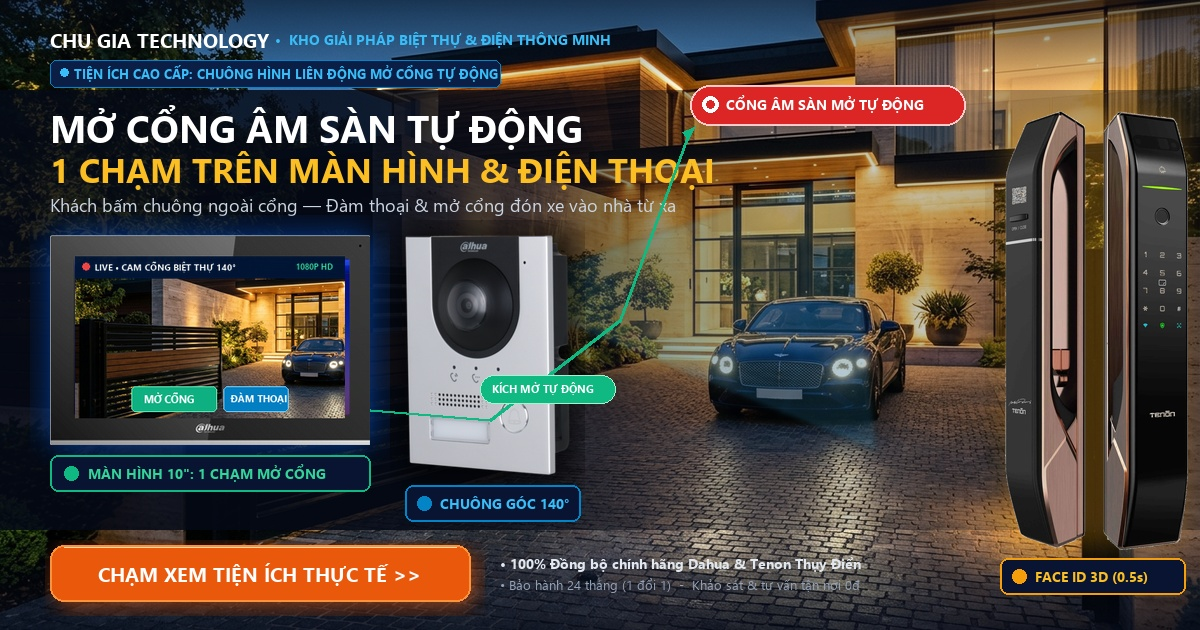
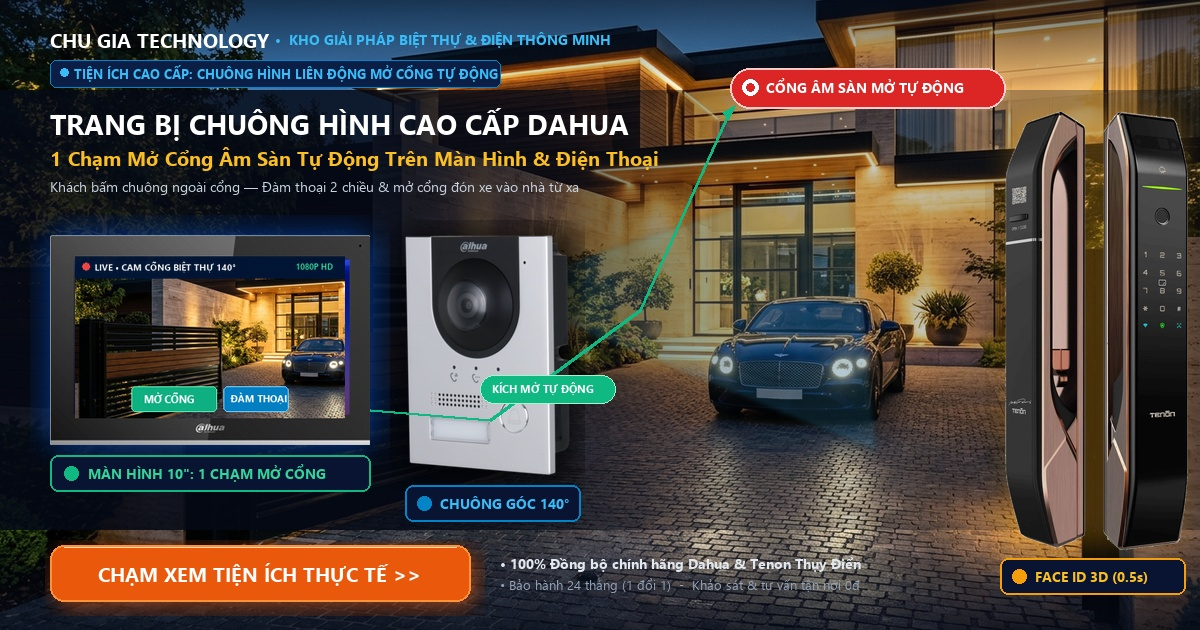
feat(share): bo sung tieu de Trang bi chuong hinh cao cap Dahua va thu nho chu doan mo cong am san

Changed region(s): [[0.0308, 0.0905, 0.8633, 0.5429], [0.4625, 0.5429, 0.4933, 0.6032]]

diff --git a/combo/dahua-villa.html b/combo/dahua-villa.html
@@ -3,28 +3,28 @@
 <head>
   <meta charset="UTF-8">
   <meta name="viewport" content="width=device-width, initial-scale=1.0">
-  <title>🔥 1 Chạm Mở Cổng Âm Sàn & Đón Khách Từ Xa • Combo Chuông Hình Dahua 140° & Khóa Face ID Tenon A7x | Chu Gia Technology</title>
-  <meta name="description" content="Khách bấm chuông ngoài cổng — Đàm thoại 2 chiều và bấm 1 chạm mở cổng âm sàn đón xe vào nhà ngay trên màn hình 10 inch hoặc qua điện thoại từ xa. Camera góc siêu rộng 140° không điểm mù & Khóa thông minh Tenon A7x nhận diện Face ID 3D. Trọn gói ưu đãi tiết kiệm 2.500.000 ₫, bảo hành 24 tháng 1 đổi 1. Hotline: 0941 204 125.">
+  <title>🔥 Trang Bị Chuông Hình Cao Cấp Dahua • Mở Cổng Âm Sàn Tự Động & Khóa Face ID Tenon A7x | Chu Gia Technology</title>
+  <meta name="description" content="Trang bị chuông hình cao cấp Dahua — Đàm thoại 2 chiều và bấm 1 chạm mở cổng âm sàn tự động đón xe vào nhà ngay trên màn hình 10 inch hoặc qua điện thoại từ xa. Camera góc siêu rộng 140° không điểm mù & Khóa thông minh Tenon A7x nhận diện Face ID 3D. Trọn gói ưu đãi tiết kiệm 2.500.000 ₫, bảo hành 24 tháng 1 đổi 1. Hotline: 0941 204 125.">
 
   <!-- Open Graph / Facebook -->
   <meta property="og:locale" content="vi_VN">
   <meta property="og:type" content="product">
   <meta property="og:site_name" content="Chu Gia Technology">
   <meta property="og:url" content="https://chugia.shop/combo/dahua-villa.html">
-  <meta property="og:title" content="🔥 1 Chạm Mở Cổng Âm Sàn & Đón Khách Từ Xa — Chuông Hình Dahua 140° & Khóa Face ID Tenon A7x">
-  <meta property="og:description" content="Khách bấm chuông ngoài cổng — Đàm thoại 2 chiều và bấm 1 chạm mở cổng âm sàn đón xe vào nhà ngay trên màn hình 10 inch hoặc qua điện thoại từ xa. Camera góc siêu rộng 140° không điểm mù & Khóa thông minh Tenon A7x nhận diện Face ID 3D. Tiết kiệm 2.500.000 ₫ trọn gói.">
-  <meta property="og:image" content="https://chugia.shop/images/share/dahua-villa.jpg?v=20260918_auto_gate">
-  <meta property="og:image:secure_url" content="https://chugia.shop/images/share/dahua-villa.jpg?v=20260918_auto_gate">
+  <meta property="og:title" content="🔥 Trang Bị Chuông Hình Cao Cấp Dahua — Mở Cổng Âm Sàn & Khóa Face ID Tenon A7x">
+  <meta property="og:description" content="Trang bị chuông hình cao cấp Dahua — Đàm thoại 2 chiều và bấm 1 chạm mở cổng âm sàn tự động đón xe vào nhà ngay trên màn hình 10 inch hoặc qua điện thoại từ xa. Camera góc siêu rộng 140° & Khóa Face ID 3D Tenon A7x. Tiết kiệm 2.500.000 ₫ trọn gói.">
+  <meta property="og:image" content="https://chugia.shop/images/share/dahua-villa.jpg?v=20260918_dahua_gate_v2">
+  <meta property="og:image:secure_url" content="https://chugia.shop/images/share/dahua-villa.jpg?v=20260918_dahua_gate_v2">
   <meta property="og:image:type" content="image/jpeg">
   <meta property="og:image:width" content="1200">
   <meta property="og:image:height" content="630">
-  <meta property="og:image:alt" content="Tiện ích mở cổng âm sàn 1 chạm — Combo Chuông Hình Dahua 140° & Khóa Tenon A7x Face ID 3D">
+  <meta property="og:image:alt" content="Trang bị chuông hình cao cấp Dahua — Tiện ích mở cổng âm sàn 1 chạm & Khóa Tenon A7x Face ID 3D">
 
   <!-- Twitter Card -->
   <meta name="twitter:card" content="summary_large_image">
-  <meta name="twitter:title" content="🔥 1 Chạm Mở Cổng Âm Sàn & Đón Khách Từ Xa — Chuông Hình Dahua 140° & Khóa Face ID Tenon A7x">
-  <meta name="twitter:description" content="Khách bấm chuông ngoài cổng — Đàm thoại 2 chiều và bấm 1 chạm mở cổng âm sàn đón xe vào nhà ngay trên màn hình 10 inch hoặc qua điện thoại từ xa. Camera góc siêu rộng 140° không điểm mù & Khóa thông minh Tenon A7x nhận diện Face ID 3D. Tiết kiệm 2.500.000 ₫ trọn gói.">
-  <meta name="twitter:image" content="https://chugia.shop/images/share/dahua-villa.jpg?v=20260918_auto_gate">
+  <meta name="twitter:title" content="🔥 Trang Bị Chuông Hình Cao Cấp Dahua — Mở Cổng Âm Sàn & Khóa Face ID Tenon A7x">
+  <meta name="twitter:description" content="Trang bị chuông hình cao cấp Dahua — Đàm thoại 2 chiều và bấm 1 chạm mở cổng âm sàn tự động đón xe vào nhà ngay trên màn hình 10 inch hoặc qua điện thoại từ xa. Camera góc siêu rộng 140° & Khóa Face ID 3D Tenon A7x. Tiết kiệm 2.500.000 ₫ trọn gói.">
+  <meta name="twitter:image" content="https://chugia.shop/images/share/dahua-villa.jpg?v=20260918_dahua_gate_v2">
 
   <!-- Canonical & Instant Redirect -->
   <link rel="canonical" href="https://chugia.shop/combo-khoa-chuong.html?brand=dahua&combo=villa">
